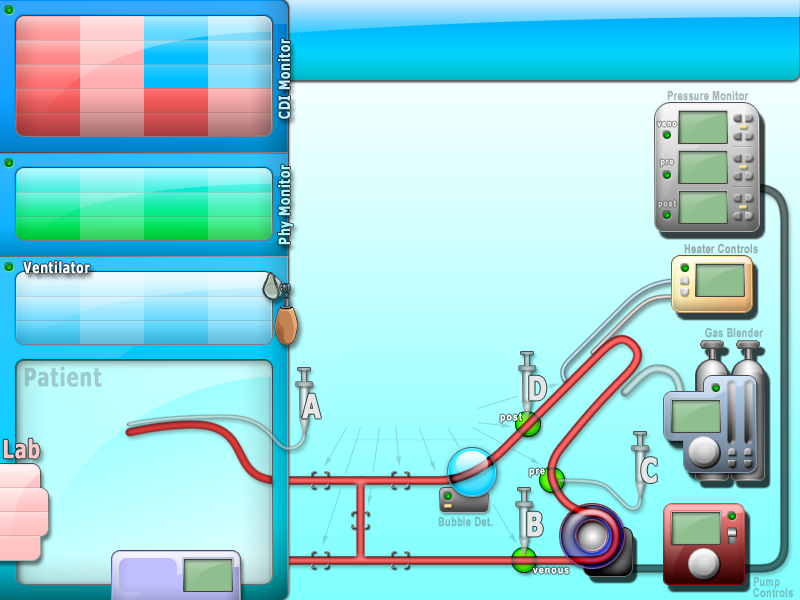
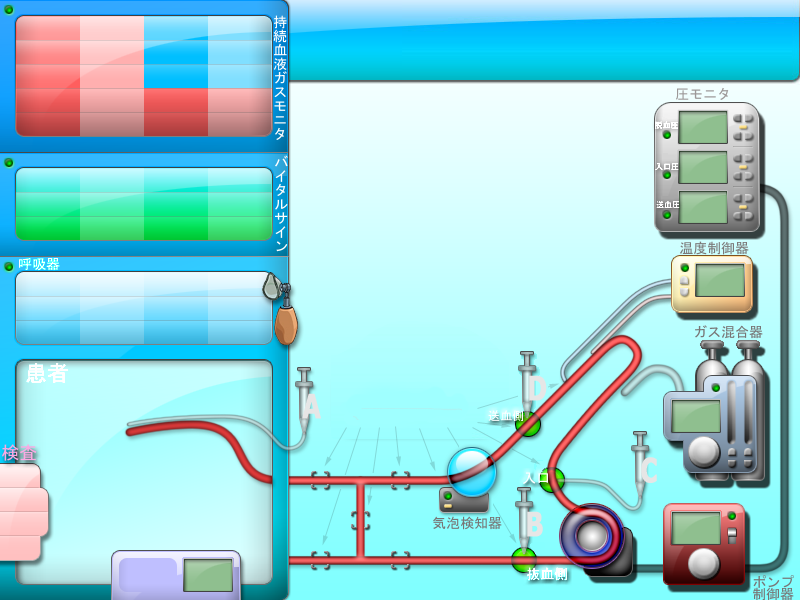
lt: ja[i18n] Added Japanese translated base background image
git-svn-id: https://ecmojo.svn.sourceforge.net/svnroot/ecmojo@576 6adee215-725e-4b28-87c1-af44a2b16021

diff --git a/trunk/app/src/app/edu/hawaii/jabsom/tri/ecmo/app/view/ManagerPanel.java b/trunk/app/src/app/edu/hawaii/jabsom/tri/ecmo/app/view/ManagerPanel.java
@@ -22,6 +22,7 @@ import java.awt.Image;
 
 import king.lib.access.ImageLoader;
 import king.lib.out.Error;
+import king.lib.util.Translator;
 
 /**
  * The manager panel. 
@@ -32,7 +33,8 @@ import king.lib.out.Error;
 public class ManagerPanel extends JPanel {
 
   /** The panel image. */
-  private Image background = ImageLoader.getInstance().getImage("conf/image/interface/game/Base.png");
+  private Image background = ImageLoader.getInstance().getImage(
+      Translator.getString("image.base[i18n]: conf/image/interface/game/Base.png"));
 
   /** The current detail panel. null for none. */
   private DetailPanel detailPanel;
